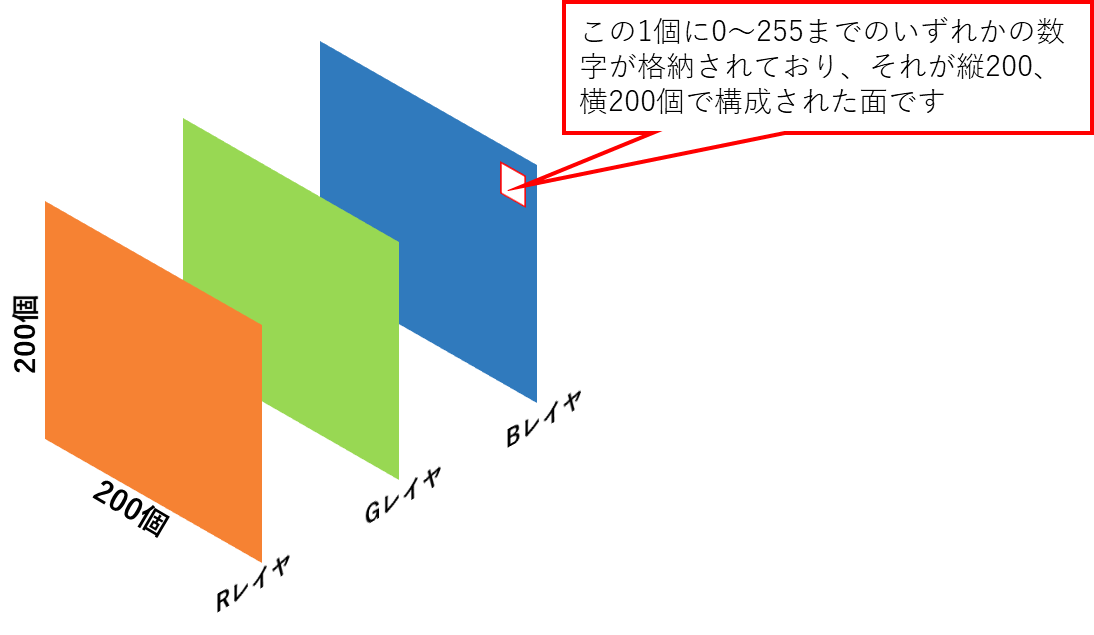
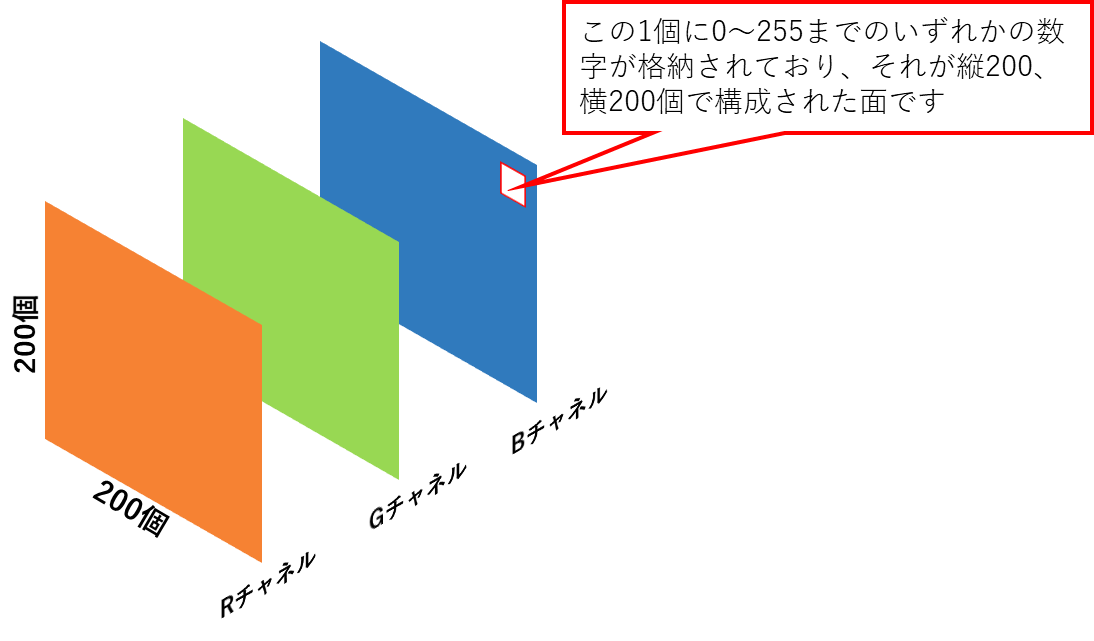
02 chainercv 文言統一と一部の記事追加 (#10)
* レイヤ ->.チャネル

* 文言の統一と一部の記事を追加

diff --git a/src/02-chainercv.md b/src/02-chainercv.md
@@ -1,6 +1,6 @@
 # chainercv は魔法のツール！
 
-@<icon>{yousei} 「DeepLearningの花形といえば、なんといっても画像分類だね。でもってChainerには画像の処理を簡単に実装できちゃう機能が豊富なことは当然知っているよね？」
+@<icon>{yousei} 「DeepLearningの花形といえば、なんといっても画像分類だね。でもってChainerには画像の処理を簡単に実装できちゃう機能がたくさんあることは当然知っているよね？」
 
 　
 
@@ -12,23 +12,21 @@
 
 　
 
-　chianercvには簡単に使える画像処理の機能がたくさん用意されています。さっそく画像処理の基礎から見ていきましょう。なにはともあれchainercvのインストールですね。
-
-　
-
-この章ではGoogleColabratory@<fn>{fn01}上で実行することを想定しています。
-//footnote[fn01][https://colab.research.google.com/]
+　うめざわの言う通りchianercvには、簡単に使える画像処理の機能がたくさん用意されています。しかもとっても簡単に使えるのです。さっそく画像処理の基礎からやってみましょう。なにはともあれchainercvをインストール！
 
 
 ```
 !pip install chainercv
 ```
 
+この章ではGoogleColabratory@<fn>{fn01}上で実行することを想定しています。
+//footnote[fn01][https://colab.research.google.com/]
+
 
 ## 基本的な操作
 
 
-まずは画像の基本的な操作から。画像の読み込みと表示をやってみましょう。今回はchainer user group のロゴ@<fn>{fn02}を用意しましたのでダウンロードして使いましょう。
+まずは画像の基本的な操作として画像の読み込みと表示をやってみましょう。今回はchainer user group のロゴ@<fn>{fn02}を用意したのでダウンロードして使います。
 //footnote[fn02][https://avatars1.githubusercontent.com/u/20376886?s=200&v=4]
 
 
@@ -39,7 +37,7 @@
 
 ![chug logo](src/images/chainercv_fig01.png)
 
-これは縦と横がそれぞれ200pxのRGB画像です。この画像を使って次のコードを実行してみましょう。
+このロゴは縦と横がそれぞれ200pxのRGB画像です。この画像を使って次のコードを実行してみましょう。
 
 ```
 import numpy as np
@@ -49,25 +47,25 @@ image = read_image("./chainercv_fig01.png")
 print(image.shape)
 ```
 
-`(3, 200, 200) ` と出力されましたね@<fn>{fn03}。これは 縦200px 横200px の面が３つあることを示しています。これは「３レイヤある」と言い、次の図のようなイメージでに構成されています。レイヤの順番は0番目がR（赤）、1番目がG（緑）、2番目がB（青）であり、それぞれ各色の濃淡の情報が格納されています。
-//footnote[fn03][その他の画像処理系のライブラリでは(200, 200, 3)のようにレイヤの次元を示す位置が異なる場合があるので注意しましょう。]
+`(3, 200, 200) ` と出力されましたね@<fn>{fn03}。これは 縦200px 横200px の面が３つあることを示しています。これは「３チャネルある」と言って、次の図のようなイメージで構成されています。チャネルの順番は0番目がR（赤）、1番目がG（緑）、2番目がB（青）となっていて、それぞれ各色の濃淡の情報が格納されているのです。
+//footnote[fn03][その他の画像処理系のライブラリでは(200, 200, 3)のようにチャネルの次元を示す位置が異なる場合があるので注意！]
 
 
 ![chainercv fig02](src/images/chainercv_fig02.png)
 
 
-３つの情報が重なって多くの色を表現することができるのです。次に、それぞれのレイヤだけの単色画像を表示させてみましょう。先程のコードの続きで実行してみてください。
+３つのチャネルの情報が重なって多くの色を表現することができるのです。次に、それぞれのチャネルだけの単色画像を表示させてみましょう。先程のコードの続きで実行してみてください。
 
 ```
 from chainercv.utils.image import tile_images
 from chainercv.visualizations import vis_image
 
 image_R = np.copy(image)
-image_R[(1, 2), :, :] = 0     # GとBのレイヤの情報をすべて0にする
+image_R[(1, 2), :, :] = 0     # GとBのチャネルの情報をすべて0にする
 image_G = np.copy(image)
-image_G[(0, 2), :, :] = 0     # RとBのレイヤの情報をすべて0にする
+image_G[(0, 2), :, :] = 0     # RとBのチャネルの情報をすべて0にする
 image_B = np.copy(image)
-image_B[(0, 1), :, :] = 0     # RとGのレイヤの情報をすべて0にする
+image_B[(0, 1), :, :] = 0     # RとGのチャネルの情報をすべて0にする
 
 # タイルイメージとして作成し表示する
 images = np.array([image_R, image_G, image_B])
@@ -79,7 +77,7 @@ vis_image(tile_image)
 
 
 上記のように表示されます。
-例えば左端は赤を表すレイヤの単色画像にはロゴがうっすら見えるかと思います。これは普通の赤よりも濃い赤が使用されているを表しています。そして、中と右端の画像ではロゴが真っ黒になっています。これは、レイヤを重ねたときに、緑と青を含まない濃い赤色のみが表示されることを意味しています。ロゴには緑と青の要素がないというこですね。
+例えば、左端は赤を表すチャネルの単色画像で、ロゴがうっすらと見えるかと思います。これは普通の赤よりも濃い赤が使用されていることを表しています。そして、中と右端の画像ではロゴが真っ黒になっています。これは、ロゴの部分に緑と青の要素がまったくないことを表しています。
 
 これらは混ざると明るくなり白に近づいていく混色方法であり、光の３原色と呼ばれています。
 
@@ -89,15 +87,15 @@ vis_image(tile_image)
 
 ```
 image_realR = np.copy(image_R)
-image_realR[(0), :, :]    = 255   # Rのレイヤの情報をすべて255にする
-image_realR[(1, 2), :, :] = 0     # G,Bのレイヤの情報をすべて0にする
+image_realR[(0), :, :]    = 255   # Rのチャネルの情報をすべて255にする
+image_realR[(1, 2), :, :] = 0     # G,Bのチャネルの情報をすべて0にする
 
 # RGBの単勝画像をタイルイメージを作成
 images = np.array([image_realR, image_G, image_B])
 tile_image = tile_images(images, 3)
 vis_image(tile_image)
 
-# オリジナル画像と、Rレイヤをすべて255にしたタイルイメージを作成
+# オリジナル画像と、Rチャネルをすべて255にしたタイルイメージを作成
 red_image = np.array([image_realR[0], image_G[1], image_B[2]])
 vis_image(red_image)
 ```
@@ -108,21 +106,21 @@ vis_image(red_image)
 
 
 いかがでしたでしょうか？
-この章では、chainercvのライブラリを使って、画像の読み込み、RGBの情報の分解を経て、画像の表示まで勉強しました。
+この章では、chainercvのライブラリを使って、画像の読み込み、RGBのチャネル情報の分解を経て、画像の表示まで勉強しました。
 
 　
 
-chainercvを使って読み込んだ画像の情報は、３つの色レイヤで構成され、縦横で示されるサイズ領域には0～255の値がそのレイヤの色の強さを示していることが理解できたかと思います。これらはchainercvに限らず画像処理の基本中の基本なので抑えておきましょう。
+chainercvを使って読み込んだ画像の情報は、３つの色チャネルで構成され、縦横で表される領域には0～255の値がそのチャネルの色の強さを示していることが理解できましたね。これらはchainercvに限らず画像処理の基本中の基本なので抑えておくとよいでしょう。
 
 
 ## 画像の変形
 
-この章では画像のリサイズ、反転、回転、スケールを学びます。それぞれ非常に簡単であり直感的なコードなので是非試してみてください。
+この章では画像のリサイズ、反転、回転、スケールを学びます。それぞれ非常に簡単で、直感的なコードなのです。是非試してみてください。
 
 
 ### リサイズ
 
-リサイズとは画像サイズの変更です。拡大縮小ができます。先程のコードの続きで実行してみてください。
+リサイズとは画像サイズの変更です。つまり拡大縮小ができます。先程のコードの続きで実行してみてください。
 
 ```
 from chainercv.transforms.image.resize import resize
@@ -156,7 +154,7 @@ vis_image(tile_image)
 
 ![chainercv fig11](src/images/chainercv_fig11.png)
 
-これも簡単ですね。ただ右側は左右反転させているのですが、ロゴは左右対称なので違いがわからなかったですね。
+これも簡単ですね。ただ右側は左右反転させているのですが、ロゴが左右対称なので違いがわからないですね。
 
 　
 
@@ -185,15 +183,15 @@ vis_image(tile_image)
 どれも簡単でしたね。
 
 
-## 水増しの手法
+## 画像の水増しとは
 
-DeepLearningの精度は質の高い画像の量に比例すると言われています。だからといって、いろんな形や角度の写真を撮影するのは現実的ではありません。そのためDeepLearningでは画像の水増し(data augmentation)という手法を取り入れることが一般的です。この手法により実際には撮影していないけど、あたかも撮影したかのように仮想的に画像を増やしてニューラルネットに学習させることができます。それでは水増しの手法を見ていきましょう。
+DeepLearningの精度は質の高い画像の量に比例すると言われています。だからといって、いろんな形や角度の写真を撮影するのは現実的ではありません。そこでDeepLearningでは画像を水増し(data augmentation)するという手法を取ることが一般的なのです。これにより実際には撮影していないけど、あたかも撮影したかのように仮想的な画像を生成してニューラルネットに学習させることができます。では水増しの手法をいくつか見ていきましょう。
 
 
 
 ### random_crop
 
-これは指定されたサイズの画像を元画像からランダムで切り出します。
+指定されたサイズの画像を元画像からランダムで切り出します。先程のコードの続きで実行してみてください。
 
 
 ```
@@ -215,9 +213,11 @@ vis_image(tile_image)
 ![chainercv fig20](src/images/chainercv_fig20.png)
 
 
+　
+
 ### random_flip
 
-これは元画像をランダムに反転させます。
+これは元画像をランダムに反転させます。先程のコードの続きで実行してみてください。
 
 
 ```
@@ -241,10 +241,11 @@ vis_image(tile_image)
 左右反転が無いように見えるのは、ロゴが左右対象だからですね。
 角度を0度、45度、90度、180度、270度でランダムで回転させるrandom_rotateもあります。
 
+　
 
 ### random_expand
 
-これは元画像をランダムに拡大・縮小させます。
+これは元画像をランダムに拡大・縮小させます。先程のコードの続きで実行してみてください。
 
 
 ```
@@ -267,15 +268,53 @@ vis_image(tile_image)
 ![chainercv fig22](src/images/chainercv_fig22.png)
 
 
+　
+### 全部まとめてやってみる
+
+これまでに紹介したrandom_crop,random_flip,random_rotate,random_expandをランダムにやってみるとどうなるでしょう。先程のコードの続きで実行してみてください。
 
 
-## データセットの取得
+```
+import random
 
-DeepLearningでは学習に大量の画像が必要となります。Googleで画像検索して一つ一つ集めますか？スクレイピングのプログラムを書きますか？どれもDeepLearningとは直接関係のない作業に時間を割かねばなりませんよね。そこでchainercvです。chainercvには大量の画像セットを1行で取得できる簡単な仕組みを備えています。それではさっそく試してみましょう。
+T = True
+T_OR_F = [True, False]
+random_images = []
+
+for x in range(20):
+  # 各種ランダム系の画像処理をランダムで実行する
+  _image = image
+  if random.choice(T_OR_F) == T: _image = random_crop(_image, (100, 100))
+  if random.choice(T_OR_F) == T: _image = random_rotate(_image)
+  if random.choice(T_OR_F) == T: _image = random_flip(_image, y_random=True)
+  if random.choice(T_OR_F) == T: _image = random_expand(_image)
+  random_images.append( resize(_image, (200,200)) )
+
+# list型をNumPy配列ndarrayに変換しタイルイメージとして作成
+images = np.array(random_images)
+tile_image = tile_images(images, 5)
+vis_image(tile_image)
+```
+
+![chainercv fig23](src/images/chainercv_fig23.png)
+
+
+１枚の画像からこれだけの画像データを簡単に生成できるのはchainercvだからですね。これなら質の高い画像を簡単に大量に作ることができます。
+
 
 　
 
-取得できるデータセットはいくつかありますが、ここではVOC@<fn>{fn04}を取得してみましょう。次のコードを実行するだけです。これだけで約5,000個の以上の質の高いデータを取得できるのは本当に便利です。
+## データセットの取得
+
+前章でもあったように、DeepLearningでは学習に大量の画像が必要となります。Googleで画像検索して一つ一つ集めるのは大変ですよね？まさかスクレイピングのプログラムを書きます？いやいや。どれもDeepLearningとは直接関係のない作業に多くの時間が費やされてしまいます。これではせっかくの勉強意欲も半減です。
+
+　
+
+そこでchainercvです。chainercvには画像処理の機能以外にも大量の画像セットを数行で取得できる簡単な仕組みを備えています。それではさっそく試してみましょう。
+
+　
+
+取得できるデータセットはいくつかありますが、ここではVOC@<fn>{fn04}のデータセットを取得してみましょう。次のコードを実行するだけです。これだけで約5,000個の以上の質の高いデータを得られるのは本当に簡単ですね。先程のコードの続きで実行してみてください。
 //footnote[fn04][PASCAL VOC アノテーション付きの画像データセット。2005-2012年まで精度を競うコンペティションのためのデータセット]
 
 
@@ -297,7 +336,7 @@ vis_image(tile_image)
 ![chainercv fig30](src/images/chainercv_fig30.png)
 
 
-他にもcoco@<fn>{fn05}、cityspace@<fn>{fn06}等々、DeepLearning界隈では有名どころのデータセットが簡単に取得できるように用意されています。是非使ってみてください。
+他にもcoco@<fn>{fn05}、cityspace@<fn>{fn06}等々、DeepLearning界隈で有名なデータセットが簡単に取得できるように用意されています。いろいろと試して使ってみてくださいね。
 //footnote[fn05][Common Object in Context, Microsoftが提供している画像の認識、セグメンテーション、キャプショニングがされているデータセット]
 //footnote[fn06][ドイツのダイムラー社、マックス・プランク研究所、ダルムシュタット工科大学のチームが公開しているデータセット]
 
@@ -305,11 +344,7 @@ vis_image(tile_image)
 
 ## この先勉強をするために
 
-ChainerはDeepLearningのフレームワークですが、chainercvパッケージは画像処理のライブラリとして使うにしても十分すぎるほどの機能と容易さをもちあわせています。
-
-　
-
-chainercvには豊富なチュートリアル@<fn>{fn07}が提供されています。ちぇい子と一緒に勉強していきましょうね。
+ChainerはDeepLearningのフレームワークですが、chainercvは画像処理のライブラリとして使っても十分な機能と直感的な使いやすさを持ち合わせています。もっと勉強したい人は豊富なチュートリアル@<fn>{fn07}がありますので、ちぇい子と一緒に進めてみましょう。
 //footnote[fn07][https://chainercv.readthedocs.io/en/stable/tutorial/index.html]
 
 　
